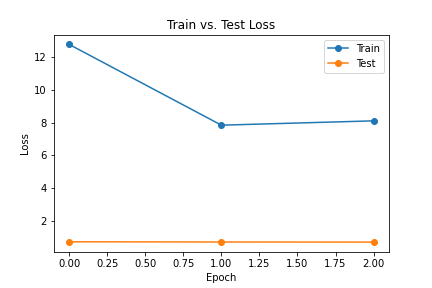
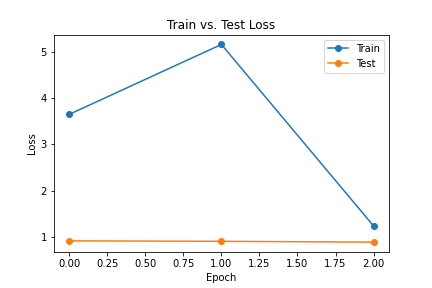
vgg works too

diff --git a/Project 2/code/nn_pytorch.py b/Project 2/code/nn_pytorch.py
@@ -6,9 +6,9 @@ date: 2022-11-08
 """
 
 #-----------Hyperparameters-----------
-use_normalize = True
+use_normalize = False
 pic_folder_path = 'S:/studium/data_for_nns/mkfold/fold1'
-learning_rate = 0.1
+learning_rate = 0.03
 batch_size = 20
 num_epochs = 3
 num_classes = 2
@@ -18,7 +18,8 @@ pretrained = True
 reset_classifier_with_custom_layers = True
 train_network = True
 evaluate_network = True
-model_type = 'resnet50'
+model_type = 'resnet18'
+model_type = 'vgg16'
 output_model_path = './../models/'
 output_model_name = 'model_1'
 #----------------------------------
@@ -78,7 +79,7 @@ if use_normalize:
 data_transforms = {
     "train": transforms.Compose([
         transforms.Resize((224, 224)),
-        transforms.RandomRotation(degrees=(-40, 40)),
+        transforms.RandomRotation(degrees=(-20, 20)),
         transforms.RandomHorizontalFlip(),
         transforms.RandomVerticalFlip(),
         transforms.ToTensor()
